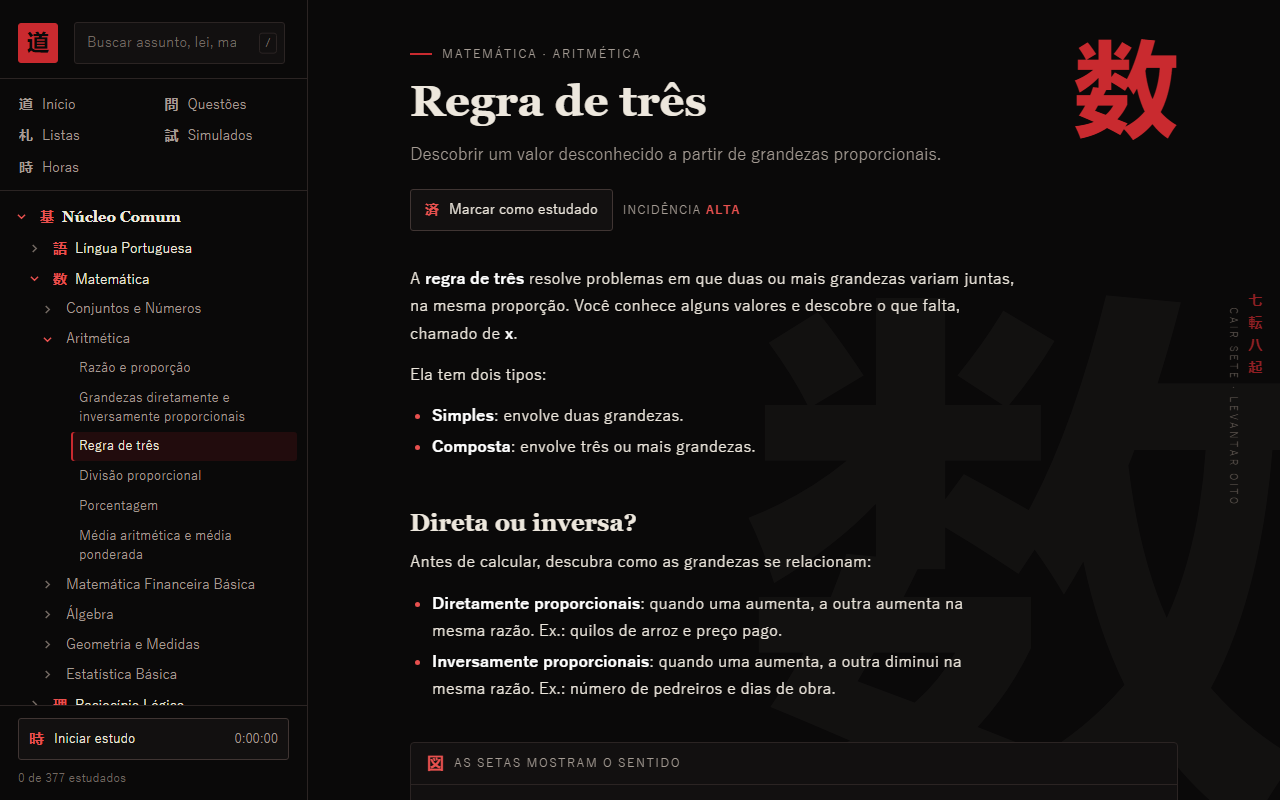
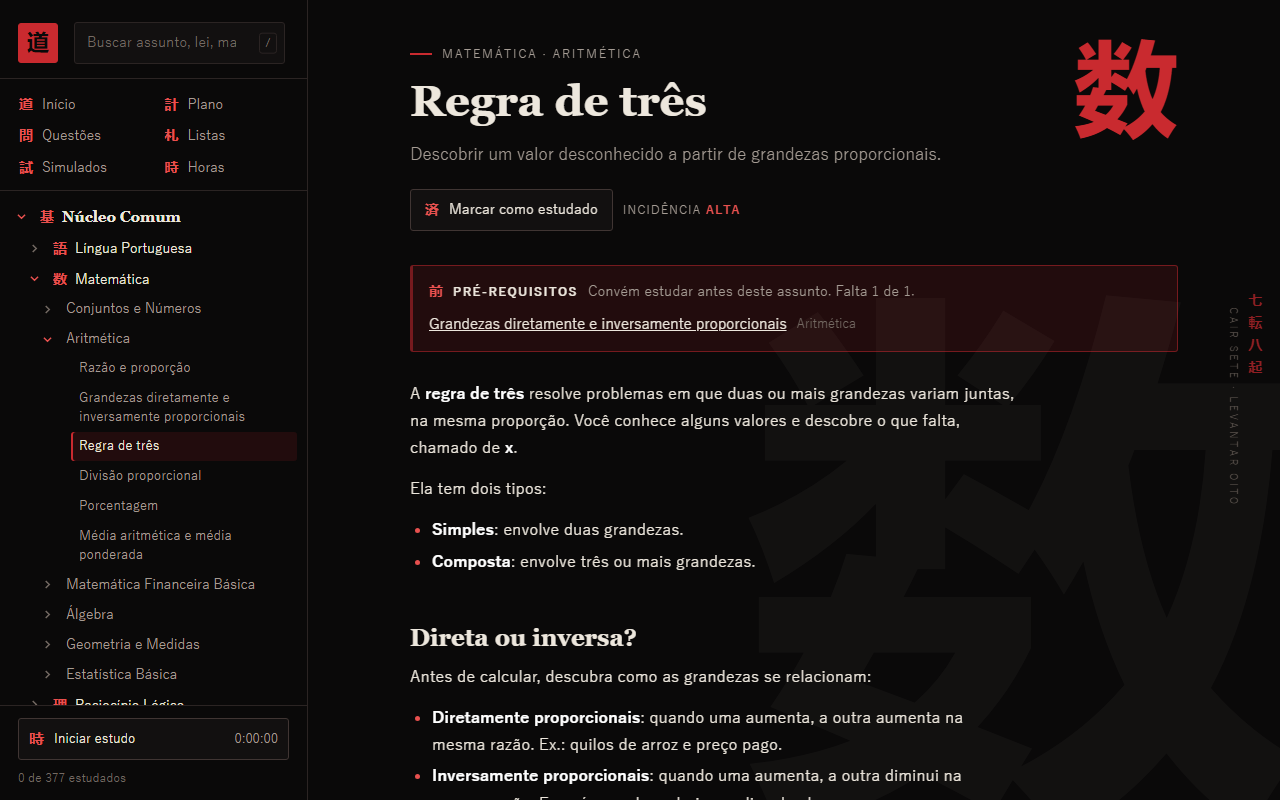
test: cobre pré-requisitos e plano de estudos
Testes de interação (quadro de pré-requisitos, plano completo, atalho no início),
#plano na navegação e na acessibilidade, e captura visual da página do plano.
Capturas de matéria e assunto atualizadas (botão do plano e quadro de pré-requisitos).

diff --git a/testes/interacoes.spec.js b/testes/interacoes.spec.js
@@ -169,3 +169,56 @@ test('banco de questões: a situação segue a última resposta (acertou e depoi
   await page.locator('[data-filtro="status"]').selectOption('certa');
   await expect(mesma, 'o filtro "Que acertei" não deve trazer a questão').toHaveCount(0);
 });
+
+test('pré-requisitos: aparecem no assunto, contam o que foi estudado e o assunto-base lista quem depende dele', async ({ page }) => {
+  await abrir(page, 'nucleo/portugues/sintaxe/crase');
+  const quadro = page.locator('.prereq');
+  await expect(quadro).toContainText('Falta');
+  await expect(quadro.locator('li')).toHaveCount(3);
+
+  await quadro.locator('a', { hasText: 'Regência verbal' }).click();
+  await expect(page.locator('#conteudo h1')).toHaveText('Regência verbal');
+  await expect(page.locator('.fontes', { hasText: 'Este assunto é base para' })).toContainText('Crase');
+  await page.locator('[data-acao="estudado"]').click();
+
+  await page.goBack();
+  await expect(page.locator('.prereq li.ok')).toHaveCount(1);
+  await expect(page.locator('.prereq li.ok')).toContainText('Regência verbal');
+});
+
+test('plano: adiciona matérias, avisa pré-requisito fora de ordem, reordena e lembra ao recarregar', async ({ page }) => {
+  await abrir(page, 'nucleo/portugues/sintaxe');
+  await page.locator('[data-acao="plano-add"]').click();
+  await expect(page.locator('#conteudo a.btn[href="#plano"]')).toBeFocused();
+
+  await page.locator('#navegacao a', { hasText: 'Plano' }).evaluate((a) => a.click());
+  await expect(page.locator('#conteudo h1')).toHaveText('Plano de estudos');
+  await expect(page.locator('.plano-item')).toHaveCount(1);
+  // Sintaxe pede Morfologia, que não está no plano: o aviso oferece adicionar.
+  await page.locator('.plano-avisos [data-materia="nucleo/portugues/morfologia"]').click();
+  await expect(page.locator('.plano-item')).toHaveCount(2);
+  await expect(page.locator('.plano-avisos .atraso')).toContainText('Morfologia');
+
+  await page.locator('[data-acao="plano-ordenar"]').click();
+  await expect(page.locator('.plano-info > a')).toHaveText(['Morfologia', 'Sintaxe']);
+  await expect(page.locator('.plano-avisos .atraso')).toHaveCount(0);
+  await expect(page.locator('[data-acao="plano-ordenar"]')).toHaveCount(0);
+
+  await page.locator('[data-acao="plano-subir"][data-materia="nucleo/portugues/sintaxe"]').click();
+  await expect(page.locator('.plano-info > a')).toHaveText(['Sintaxe', 'Morfologia']);
+  await expect(page.locator('[data-acao="plano-descer"][data-materia="nucleo/portugues/sintaxe"]'), 'o foco segue a matéria movida').toBeFocused();
+
+  await page.reload();
+  await expect(page.locator('.plano-info > a')).toHaveText(['Sintaxe', 'Morfologia']);
+  await expect(page.locator('.continuar')).toContainText('Frase, oração e período');
+
+  await page.locator('[data-acao="plano-remover"][data-materia="nucleo/portugues/morfologia"]').click();
+  await expect(page.locator('.plano-item')).toHaveCount(1);
+});
+
+test('início mostra o próximo assunto do plano', async ({ page }) => {
+  await abrir(page, 'nucleo/matematica/aritmetica');
+  await page.locator('[data-acao="plano-add"]').click();
+  await abrir(page);
+  await expect(page.locator('.atalhos .continuar', { hasText: 'Próximo do plano' })).toContainText('Razão e proporção');
+});

diff --git a/testes/navegacao.spec.js b/testes/navegacao.spec.js
@@ -53,7 +53,7 @@ test('endereço inexistente mostra a página de não encontrado', async ({ page 
   await expect(page.locator('#conteudo h1')).toHaveText('Papiro');
 });
 
-for (const [rota, titulo] of [['questoes', 'Banco de questões'], ['listas', 'Listas de questões'], ['simulados', 'Simulados'], ['horas', 'Horas de estudo']]) {
+for (const [rota, titulo] of [['plano', 'Plano de estudos'], ['questoes', 'Banco de questões'], ['listas', 'Listas de questões'], ['simulados', 'Simulados'], ['horas', 'Horas de estudo']]) {
   test(`página especial #${rota} abre`, async ({ page }) => {
     await abrir(page, rota);
     await semAvisos(page);
@@ -63,7 +63,7 @@ for (const [rota, titulo] of [['questoes', 'Banco de questões'], ['listas', 'Li
 }
 
 test('todo link e botão visível tem nome para leitor de tela', async ({ page }) => {
-  for (const caminho of ['', ASSUNTO_MODELO, 'questoes', 'horas']) {
+  for (const caminho of ['', ASSUNTO_MODELO, 'questoes', 'horas', 'plano', 'nucleo/portugues/sintaxe']) {
     await abrir(page, caminho);
     const semNome = await page.evaluate(() => {
       const nome = (el) => {
@@ -85,6 +85,6 @@ test('todo link e botão visível tem nome para leitor de tela', async ({ page }
 test('fora do artefato, ranking, assistente, redação e perfil ficam escondidos', async ({ page }) => {
   await abrir(page);
   const nav = page.locator('#navegacao');
-  await expect(nav.locator('a')).toHaveText(['Início', 'Questões', 'Listas', 'Simulados', 'Horas'].map((t) => new RegExp(`${t}$`)));
+  await expect(nav.locator('a')).toHaveText(['Início', 'Plano', 'Questões', 'Listas', 'Simulados', 'Horas'].map((t) => new RegExp(`${t}$`)));
   await expect(page.locator('#perfil-mini')).toBeHidden();
 });

diff --git a/testes/visual.spec.js b/testes/visual.spec.js
@@ -12,6 +12,7 @@ const PAGINAS = [
   ['assunto', 'nucleo/matematica/aritmetica/regra-de-tres'],
   ['nao-encontrado', 'nucleo/nao-existe'],
   ['questoes', 'questoes'],
+  ['plano', 'plano'],
 ];
 
 for (const [nome, caminho] of PAGINAS) {
